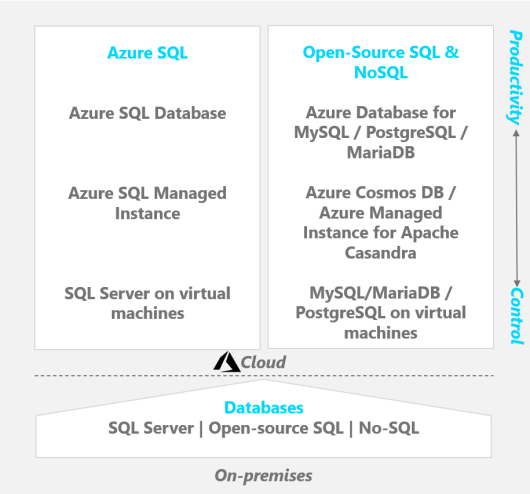
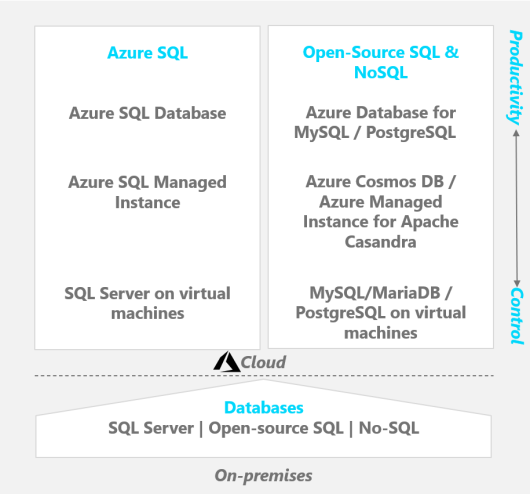
Remove Azure Database for MariaDB
Azure Database for MariaDB is being retired in September 2025.

Changed region(s): [[0.5736, 0.2733, 0.8755, 0.5466], [0.1208, 0.334, 0.4528, 0.4555]]

diff --git a/docs/modernize/modernize-strategies/database-modernization.md b/docs/modernize/modernize-strategies/database-modernization.md
@@ -34,7 +34,7 @@ There are two PaaS and one IaaS solution to choose from in each database categor
 
 - MySQL, MariaDB, or PostgreSQL on virtual machines (IaaS)
 - Azure Cosmos DB and Azure Managed Instance for Apache Casandra (PaaS)
-- Fully managed MySQL, MariaDB, and PostgreSQL databases (PaaS)
+- Fully managed MySQL and PostgreSQL databases (PaaS)
 
 Use the tables below to find implementation guidance on modernizing your database.
 
@@ -64,7 +64,6 @@ When you find the right solution, follow the implementation guidance to moderniz
 | *Balance control & productivity* | [Azure Managed Instance for Apache Cassandra](/azure/managed-instance-apache-cassandra/introduction)| <ul><li> Hybrid deployment </li> <li>Automated deployment & scaling for Apache Cassandra datacenters</li> <li>Automated patching</li> <li>Automated health checks</li> </ul> | [Apache Cassandra](/azure/managed-instance-apache-cassandra/dual-write-proxy-migration) |
 | *Most productivity* | [Azure Cosmos DB](/azure/cosmos-db/introduction) | <ul><li> A fully managed NoSQL database</li><li>Cost-efficiency</li><li>Support for MongoDB & Gremlin</ul> | [Azure Cosmos DB](/azure/cosmos-db/cosmosdb-migrationchoices) |
 | *Most productivity* | [Azure Database for MySQL](/azure/mysql/single-server/overview) | <ul><li>A fully managed SQL solution</li><li>Cost and performance efficiency</li></ul> | [Azure Database for MySQL](/azure/dms/tutorial-mysql-azure-mysql-offline-portal) <br><br> Using the [Azure Database Migration Service](/azure/dms/)|
-| *Most productivity* | [Azure Database for MariaDB](/azure/mariadb/overview) | <ul><li>A fully managed SQL solution</li><li>Cost and performance efficiency</li></ul> | [Azure Database for MariaDB](/azure/mariadb/howto-migrate-dump-restore) |
 | *Most productivity* | [Azure Database for PostgreSQL](/azure/postgresql/single-server/overview) | <ul><li>A fully managed SQL solution</li><li>Cost and performance efficiency</li></ul>| [Azure Database for PostgreSQL](/azure/dms/tutorial-postgresql-azure-postgresql-online-portal)|
 
 ## Next steps

diff --git a/docs/scenarios/sap/enterprise-scale-landing-zone.md b/docs/scenarios/sap/enterprise-scale-landing-zone.md
@@ -157,7 +157,7 @@ The example SAP systems architecture uses [private endpoints](/azure/private-lin
 
 #### SAP BTP connectivity
 
-Azure Private Link is now generally available. SAP Private Link Service currently supports connections from SAP BTP, the Cloud Foundry runtime, and other services on top of [Private Link resources](https://help.sap.com/docs/PRIVATE_LINK/42acd88cb4134ba2a7d3e0e62c9fe6cf/e8bc0c6440834a47a0ff57cb4efc0dc2.html?locale=en-US) for the most common load balancer plus virtual machine scenarios. Example scenarios include SAP S/4HANA or SAP ERP running on the virtual machine and connecting to Azure native services like [Azure Database for MariaDB](https://help.sap.com/docs/PRIVATE_LINK/42acd88cb4134ba2a7d3e0e62c9fe6cf/862fa2958c574c3cbfa12a927ce1d5fe.html?locale=en-US) or [Azure Database for MySQL](https://help.sap.com/docs/PRIVATE_LINK/42acd88cb4134ba2a7d3e0e62c9fe6cf/5c70499ee70b415d954145a795e43355.html?locale=en-US).
+Azure Private Link is now generally available. SAP Private Link Service currently supports connections from SAP BTP, the Cloud Foundry runtime, and other services on top of [Private Link resources](https://help.sap.com/docs/PRIVATE_LINK/42acd88cb4134ba2a7d3e0e62c9fe6cf/e8bc0c6440834a47a0ff57cb4efc0dc2.html?locale=en-US) for the most common load balancer plus virtual machine scenarios. Example scenarios include SAP S/4HANA or SAP ERP running on the virtual machine and connecting to Azure native services like [Azure Database for MySQL](https://help.sap.com/docs/PRIVATE_LINK/42acd88cb4134ba2a7d3e0e62c9fe6cf/5c70499ee70b415d954145a795e43355.html?locale=en-US).
 
 The example architecture shows an SAP Private Link Service connection to BTP environments. SAP Private Link Service establishes a private connection between specific SAP BTP services and specific services in your infrastructure as service provider accounts. If you reuse the private link functionality, BTP services can access your S/4 HANA environment through private network connections, which avoids data transfer over the public internet.
 

diff --git a/docs/migrate/assess/evaluate.md b/docs/migrate/assess/evaluate.md
@@ -69,7 +69,7 @@ As part of your server migration, you might also look at migrating SQL Server in
 
 - **Document RPOs and RTOs**: Document the recovery point objectives (RPOs) and the recovery time objectives (RTOs) of the current database deployment. Use this information to help you make decisions during [architecture activities](./architect.md).
 - **Document high-availability requirements**: Document high-availability configuration requirements. For more information about SQL Server requirements, see the [SQL Server high availability solutions guide](/sql/database-engine/sql-server-business-continuity-dr).
-- **Evaluate PaaS**: Evaluate platform as a service (PaaS) compatibility. The [Azure Database Migration Service guides](/data-migration/) map on-premises databases to compatible Azure PaaS solutions, like Azure Cosmos DB, Azure SQL Database, Azure Database for MySQL, Azure Database for PostgreSQL, or Azure Database for MariaDB.
+- **Evaluate PaaS**: Evaluate platform as a service (PaaS) compatibility. The [Azure Database Migration Service guides](/data-migration/) map on-premises databases to compatible Azure PaaS solutions, like Azure Cosmos DB, Azure SQL Database, Azure Database for MySQL, or Azure Database for PostgreSQL.
   - **PaaS compatibility without remediation**: When PaaS compatibility is an option without the need for any remediation, consult the team that's responsible for architecture activities. PaaS migrations can save time and reduce the total cost of ownership (TCO) of most cloud solutions.
   - **PaaS compatibility when remediation is required**: Consult the teams that are responsible for [architecture](../assess/architect.md) and [remediation](../deploy/remediate.md) activities. In many scenarios, the advantages of PaaS migrations for database solutions outweigh the increase in remediation time.
 - **Document size and rate of change**: Document the size and rate of change for each database that you plan to migrate.

diff --git a/docs/scenarios/cloud-scale-analytics/eslz-policies.md b/docs/scenarios/cloud-scale-analytics/eslz-policies.md
@@ -58,7 +58,6 @@ Cloud-scale analytics contains custom policies related to **resource and cost ma
 - [Azure Machine Learning](#azure-machine-learning)
 - [Azure SQL Managed Instance](#azure-sql-managed-instance)
 - [Azure SQL Database](#azure-sql-database)
-- [Azure Database for MariaDB](#azure-database-for-mariadb)
 - [Azure Database for MySQL](#azure-database-for-mysql)
 - [Azure Database for PostgreSQL](#azure-database-for-postgresql)
 - [Azure AI Search](#azure-ai-search)
@@ -286,16 +285,6 @@ Other policies that are applied in the Databricks workspace through cluster poli
 |Deploy-Sql-TransparentDataEncryption|Encryption|Deploy SQL transparent data encryption.|
 |Deploy-Sql-VulnerabilityAssessment|Logging|Deploy SQL vulnerability assessments.|
 |Deploy-SqlDw-AuditingSettings|Logging|Deploy SQL DW auditing settings.|
-
-## Azure Database for MariaDB
-
-|Policy name  |Policy area  |Description  |
-|---------|---------|---------|
-|Append-MariaDb-MinimalTlsVersion|Encryption|Enforces minimal TLS version for MariaDB servers.|
-|Audit-MariaDb-PrivateEndpointId|Network Isolation|Audit public endpoints that are created in other subscriptions for MariaDB.|
-|Deny-MariaDb-PublicNetworkAccess|Network Isolation|Denies public network access for my MariaDB servers.|
-|Deny-MariaDb-StorageProfile|Resilience|Enforces geo-redundant database backup with minimum retention time in days.|
-|Deploy-MariaDb-SecurityAlertPolicies|Logging|Deploy SQL security alert policies for MariaDB|
 
 ## Azure Database for MySQL
 

diff --git a/docs/scenarios/cloud-scale-analytics/secure-authorization.md b/docs/scenarios/cloud-scale-analytics/secure-authorization.md
@@ -48,7 +48,7 @@ In **Azure SQL Database**, you can assign roles to users, groups, or application
 
 In **Azure Cosmos DB**, you can assign roles to manage access to Azure Cosmos DB accounts, databases, and containers. Built-in roles like *Cosmos DB Account Reader* and *Cosmos DB Account Contributor* provide varying levels of access.
 
-In **Azure Database for MySQL**, **Azure Database for PostgreSQL**, and **Azure Database for MariaDB**, you can assign roles to manage database servers and individual databases. You can use roles like *Contributor* and *Reader* to control access.
+In **Azure Database for MySQL** and **Azure Database for PostgreSQL**, you can assign roles to manage database servers and individual databases. You can use roles like *Contributor* and *Reader* to control access.
 
 For more information, see [Azure built-in roles for databases](/azure/role-based-access-control/built-in-roles/databases).
 

diff --git a/docs/ready/azure-best-practices/resource-abbreviations.md b/docs/ready/azure-best-practices/resource-abbreviations.md
@@ -144,8 +144,6 @@ This page gives you abbreviation examples for many of the resources in Azure. Th
 | Azure SQL database | `Microsoft.Sql/servers/databases` | `sqldb` |
 | Azure SQL Elastic Job agent | `Microsoft.Sql/servers/jobAgents` | `sqlja` |
 | Azure SQL Elastic Pool | `Microsoft.Sql/servers/elasticpool` | `sqlep` |
-| MariaDB server | `Microsoft.DBforMariaDB/servers` | `maria` |
-| MariaDB database | `Microsoft.DBforMariaDB/servers/databases` | `mariadb` |
 | MySQL database | `Microsoft.DBforMySQL/servers` | `mysql` |
 | PostgreSQL database | `Microsoft.DBforPostgreSQL/servers` | `psql` |
 | SQL Server Stretch Database | `Microsoft.Sql/servers/databases` | `sqlstrdb` |

diff --git a/docs/innovate/best-practices/data.md b/docs/innovate/best-practices/data.md
@@ -40,7 +40,6 @@ In Azure, the following innovation tools are commonly used to accelerate digital
 - [Azure Cosmos DB](/azure/cosmos-db/)
 - [Azure Database for PostgreSQL](/azure/postgresql/)
 - [Azure Database for MySQL](/azure/mysql/)
-- [Azure Database for MariaDB](/azure/mariadb/)
 - [Azure Database for PostgreSQL hyperscale](/azure/postgresql/concepts-hyperscale-nodes)
 - [Azure Data Lake Storage](/azure/storage/blobs/data-lake-storage-introduction)
 - [Azure Database Migration Service](/azure/dms/)
